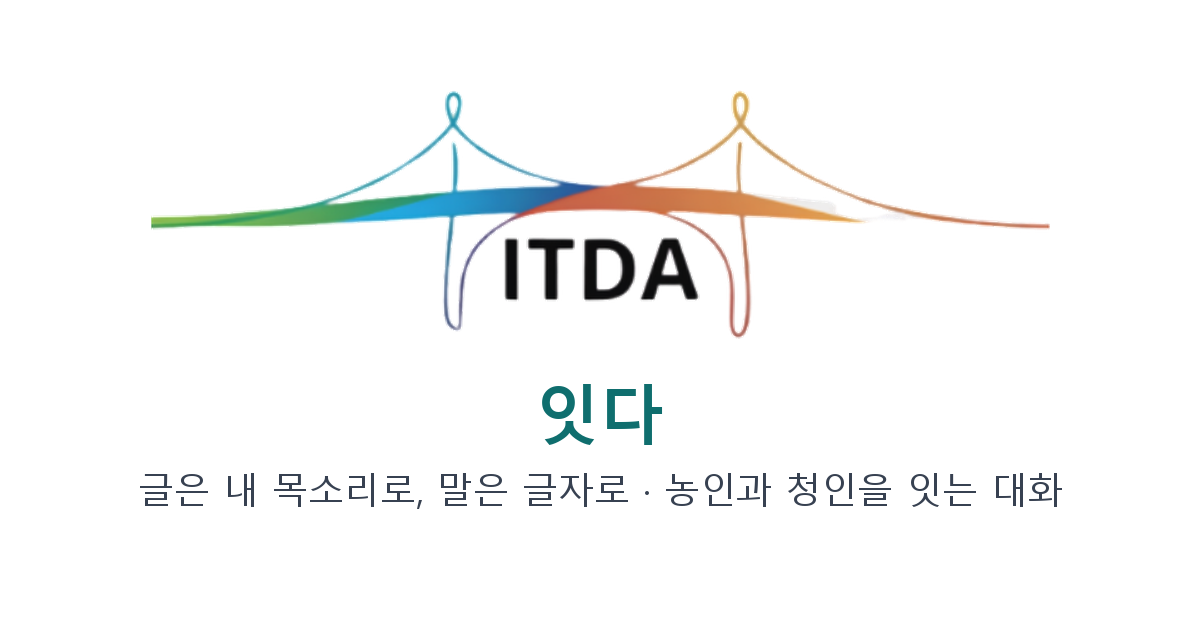
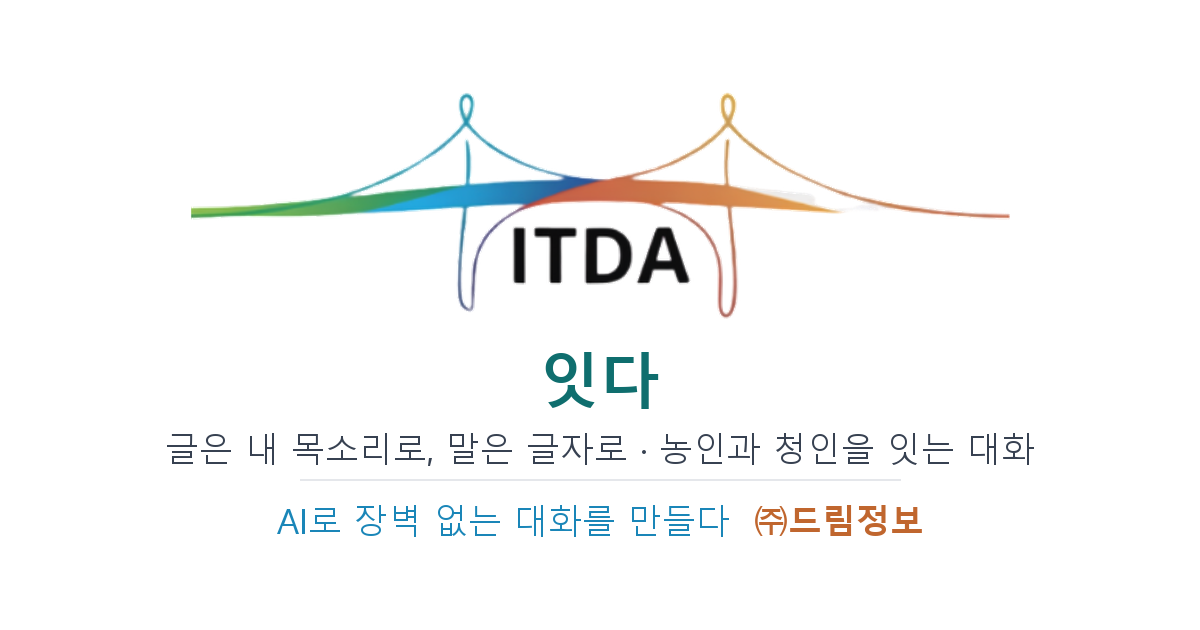
chore: 링크 미리보기 — 그림에 회사 줄(문구 파랑, 상호 주황), 설명 한 줄로

Changed region(s): [[0.1233, 0.1508, 0.8633, 0.5429], [0.1233, 0.5429, 0.8942, 0.8746]]

diff --git a/apps/web/index.html b/apps/web/index.html
@@ -14,9 +14,9 @@
     <meta property="og:type" content="website" />
     <meta property="og:site_name" content="ITDA 잇다" />
     <meta property="og:title" content="ITDA 잇다" />
-    <meta property="og:description" content="㈜드림정보는 AI 기술로 장벽 없는 대화를 추구합니다" />
+    <meta property="og:description" content="AI로 장벽 없는 대화를 만들다" />
     <meta property="og:url" content="https://itda.gyeot.ai.kr/" />
-    <meta property="og:image" content="https://itda.gyeot.ai.kr/og-image.png" />
+    <meta property="og:image" content="https://itda.gyeot.ai.kr/og-image.png?v=2" />
     <meta property="og:image:width" content="1200" />
     <meta property="og:image:height" content="630" />
     <meta name="twitter:card" content="summary_large_image" />
